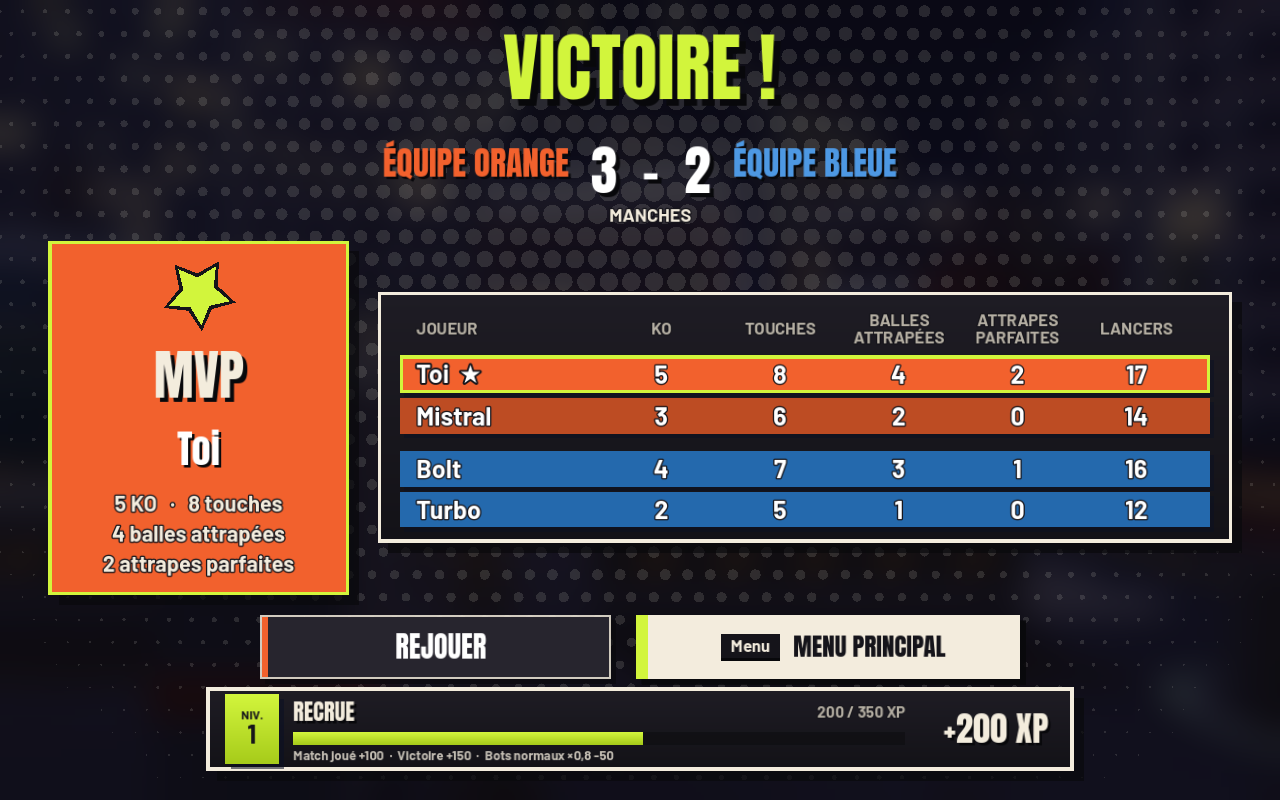
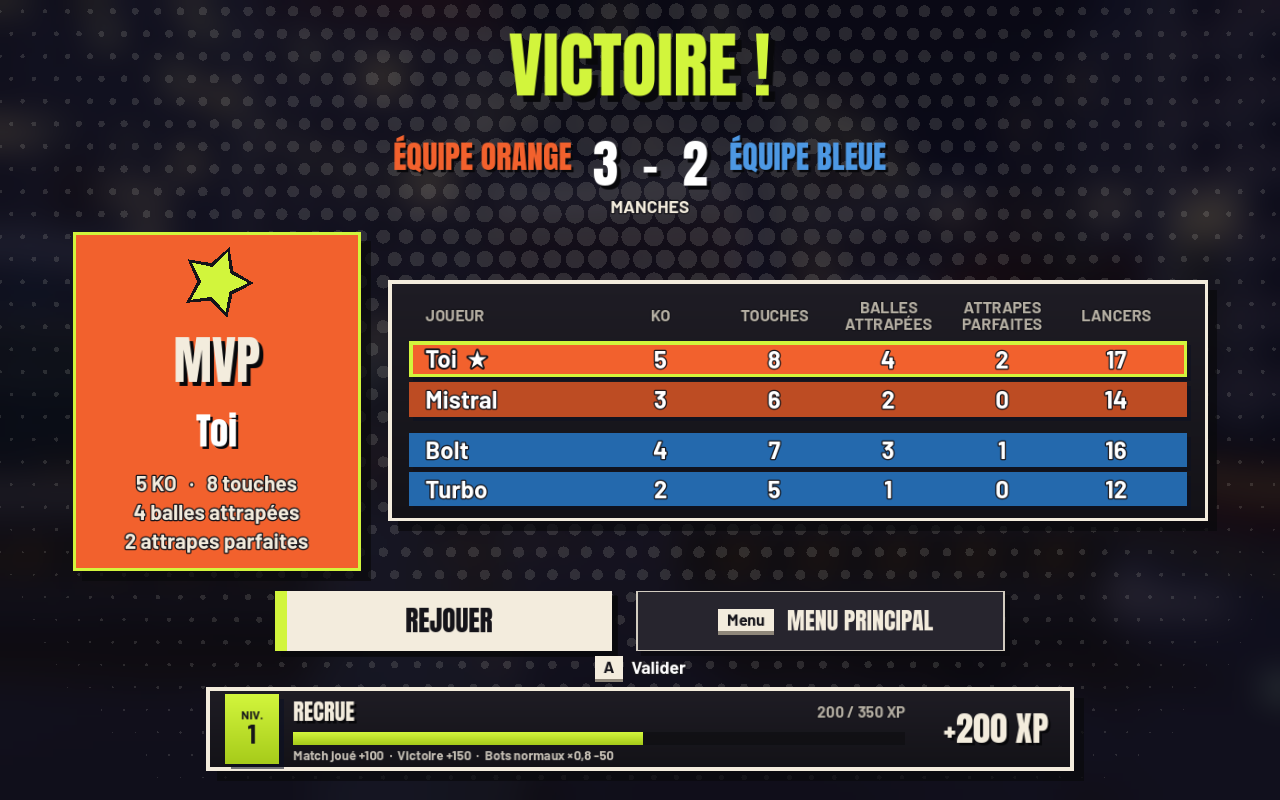
Manette : la sélection ne file plus après une réassignation, salon protégé au retour d'un match
- Options : pendant l'attente d'un nouveau bouton, la direction tenue est oubliée et le retour du stick au centre passe ;
  la répétition ne repart plus seule à la fin de la réassignation.
- Salon : 0,8 s de garde en entrant dans la salle (au retour d'un match aussi), aide « B Sortir ».
- Fin de partie : « A Valider » sous les boutons. Aide complète de la pause : « B / Y Refermer ».
- Couvert translucide : alpha 0,22.
- Captures 1280×800 et relevé (quatrième tour) dans production/qa/evidence/.

Claude-Session: https://claude.ai/code/session_01JqDGHfY1Ly5jn7p42vhJBj

Changed region(s): [[0.0312, 0.2812, 0.9688, 0.875], [0.2812, 0.1562, 0.7188, 0.2812], [0.375, 0.0312, 0.625, 0.125]]

diff --git a/scripts/Online/LobbyScreen.cs b/scripts/Online/LobbyScreen.cs
@@ -26,6 +26,10 @@ public partial class LobbyScreen : CanvasLayer
     OnlineLobby lobby = null!;
     bool dirty = true;
     Label? rematchLabel, quickLabel, quickNumber;
+    // Arrivée dans la salle (au lancement ou au retour d'un match) : les appuis des 0,8 premières secondes sont avalés,
+    // un saut (A) encore enchaîné ne change pas l'état « prêt » et ne lance pas la partie.
+    ulong guardUntil;
+    LobbyState? builtState;
 
     public override void _Ready()
     {
@@ -86,6 +90,8 @@ public partial class LobbyScreen : CanvasLayer
         foreach (var c in content.GetChildren()) c.QueueFree();
         CallDeferred(MethodName.RestoreFocus, focused ?? "");
         bool room = lobby.State == LobbyState.InRoom;
+        if (room && builtState != LobbyState.InRoom) guardUntil = Time.GetTicksMsec() + 800;   // entrée dans la salle, ou retour d'un match
+        builtState = lobby.State;
         halves.Visible = room;
         plainBg.Visible = !room;
         switch (lobby.State)
@@ -156,7 +162,7 @@ public partial class LobbyScreen : CanvasLayer
         hints.AddThemeConstantOverride("separation", 40);
         hints.AddChild(UiKit.KeyHint("Entrée", "Valider", 22, "A"));
         if (lobby.IsHost) hints.AddChild(UiKit.KeyHint("Q / E", "Carte", 22, "LB / RB"));
-        hints.AddChild(UiKit.KeyHint("Échap", "Quitter la salle", 22, "B"));   // ui_cancel : Échap, pas la touche de pause
+        hints.AddChild(UiKit.KeyHint("Échap", "Sortir", 22, "B"));   // ui_cancel : Échap, pas la touche de pause ; B sélectionne QUITTER LA SALLE, A confirme
         c.AddChild(hints);
     }
 
@@ -572,6 +578,11 @@ void fragment() {
 
     public override void _Input(InputEvent e)
     {
+        if (Time.GetTicksMsec() < guardUntil && (e is InputEventJoypadButton { Pressed: true } || e.IsActionPressed("ui_accept")))
+        {
+            GetViewport().SetInputAsHandled();
+            return;
+        }
         // Échap / B : le premier appui sélectionne QUITTER LA SALLE, le second quitte. Un joueur qui esquive encore (B)
         // au retour d'un match ne quitte pas son groupe par mégarde.
         if (lobby.State == LobbyState.InRoom && e.IsActionPressed("ui_cancel"))

diff --git a/scripts/UI/EndScreen.cs b/scripts/UI/EndScreen.cs
@@ -237,6 +237,10 @@ public partial class EndScreen : CanvasLayer
         }
         var menu = UiKit.KeyButton("MENU PRINCIPAL", InputSetup.KeyboardName("pause"), UiKit.Grey, ToMenu, 30, new Vector2(460, 76), InputSetup.PadName("pause"));
         buttons.AddChild(menu);
+        // Le bouton sélectionné se valide avec A (ou Entrée) : dit sous les boutons, REJOUER n'ayant plus de touche dessinée.
+        var validate = UiKit.KeyHint("Entrée", "Valider", 22, "A");
+        validate.SizeFlagsHorizontal = Control.SizeFlags.ShrinkCenter;
+        col.AddChild(validate);
         replayKey = first != null;
         (first ?? menu).CallDeferred(Control.MethodName.GrabFocus);
 
@@ -251,6 +255,7 @@ public partial class EndScreen : CanvasLayer
         int i = 0;
         foreach (var c in middle.GetChildren()) if (c is Control ctl) Appear(ctl, d0 + 0.35f + 0.15f * i++);
         Appear(buttons, d0 + 0.7f);
+        Appear(validate, d0 + 0.8f);
         if (mvpCard != null)
         {
             var t2 = mvpCard.CreateTween();

diff --git a/scripts/UI/InputSetup.cs b/scripts/UI/InputSetup.cs
@@ -319,6 +319,9 @@ public partial class InputDeviceWatch : Node
         bool any = stick[0] != 0 || stick[1] != 0 || dpad != null;
         // Pas de répétition pendant une réassignation, ni tant qu'un bouton d'action est enfoncé : A pressé stick tenu
         // valide la ligne visée au lieu de laisser le focus filer avant le relâché (le bouton agit au relâché).
+        // Réassignation : les options avalent les mouvements de stick, le retour au centre peut nous échapper ; on oublie la
+        // direction tenue, sinon la sélection repartirait seule à la fin de l'attente.
+        if (InputSetup.Capturing) { stick[0] = stick[1] = 0; dpad = null; }
         if (!any || !Focused() || InputSetup.Capturing || FaceHeld()) { held = 0; nextRepeat = RepeatDelay; return; }
         held += delta;
         if (held < nextRepeat) return;

diff --git a/scripts/Gameplay/DesktopPlayer.cs b/scripts/Gameplay/DesktopPlayer.cs
@@ -1437,7 +1437,7 @@ public partial class DesktopPlayer : Node3D
         ghostMat ??= new StandardMaterial3D
         {
             Transparency = BaseMaterial3D.TransparencyEnum.Alpha, ShadingMode = BaseMaterial3D.ShadingModeEnum.Unshaded,
-            AlbedoColor = new Color(0.32f, 0.35f, 0.45f, 0.3f), CullMode = BaseMaterial3D.CullModeEnum.Back,   // gris-bleu moyen : le couvert reste lisible de jour comme de nuit sans voiler le joueur de blanc
+            AlbedoColor = new Color(0.32f, 0.35f, 0.45f, 0.22f), CullMode = BaseMaterial3D.CullModeEnum.Back,   // gris-bleu moyen : le couvert reste lisible de jour comme de nuit sans voiler le joueur de blanc
         };
         var keep = new System.Collections.Generic.HashSet<MeshInstance3D>();
         var roots = new System.Collections.Generic.List<Node3D>(coversThrough);

diff --git a/scripts/UI/OptionsMenu.cs b/scripts/UI/OptionsMenu.cs
@@ -230,7 +230,11 @@ public partial class OptionsMenu : Control
                 return;
             }
             // Stick pendant l'attente : avalé, sinon le focus quitterait la ligne qui attend son bouton.
-            if (e is InputEventJoypadMotion) { GetViewport().SetInputAsHandled(); return; }
+            if (e is InputEventJoypadMotion { Axis: not (JoyAxis.TriggerLeft or JoyAxis.TriggerRight) } sm)
+            {
+                if (Mathf.Abs(sm.AxisValue) >= 0.5f) GetViewport().SetInputAsHandled();   // le retour au centre passe
+                return;
+            }
             if (!key && !mouse) return;
             GetViewport().SetInputAsHandled();
             if (e is InputEventKey { PhysicalKeycode: Key.Escape } && listening != "pause") { RebuildAfterRebind(); return; }   // remet la touche affichée

diff --git a/scripts/UI/PauseMenu.cs b/scripts/UI/PauseMenu.cs
@@ -258,6 +258,9 @@ public partial class PauseMenu : CanvasLayer
             var back = UiKit.Button("RETOUR", UiKit.Orange, Close, 26, new Vector2(300, 56));
             back.SizeFlagsHorizontal = SizeFlags.ShrinkCenter;
             col.AddChild(back);
+            var hint = UiKit.KeyHint(InputSetup.KeyboardName("help"), "Refermer", 20, "B / Y");
+            hint.SizeFlagsHorizontal = SizeFlags.ShrinkCenter;
+            col.AddChild(hint);
             back.CallDeferred(Control.MethodName.GrabFocus);
         }
 

diff --git a/production/qa/evidence/manette/parcours.md b/production/qa/evidence/manette/parcours.md
@@ -91,4 +91,13 @@ Corrigé après la revue indépendante :
 Captures au format Deck : `deck/pause-1280x800.png`, `deck/pause-aide-1280x800.png`, `deck/fin-1280x800.png`,
 `deck/hud-1280x800.png`, `deck/options-reassignation-1280x800.png`.
 
+## Quatrième tour (après revue : 7,5/10)
+
+- réassignation : la direction tenue est oubliée pendant l'attente et le retour du stick au centre n'est plus avalé, la
+  sélection ne repart plus seule ensuite (`19 pause → « X »` : le focus reste sur la ligne réassignée) ;
+- salon : aide « B Sortir » (B sélectionne QUITTER LA SALLE, A confirme) ; les appuis des 0,8 premières secondes dans la
+  salle, à l'arrivée ou au retour d'un match, sont avalés (vérifié à la lecture : pas simulable au bon instant) ;
+- fin de partie : « A Valider » sous les boutons ; aide complète de la pause : « B / Y Refermer » ;
+- couvert translucide : alpha 0,22, le joueur garde ses accents orange.
+
 Restent à vérifier sur un vrai Deck : stick physique, pavé tactile, clavier de Steam pour le code de salle.
